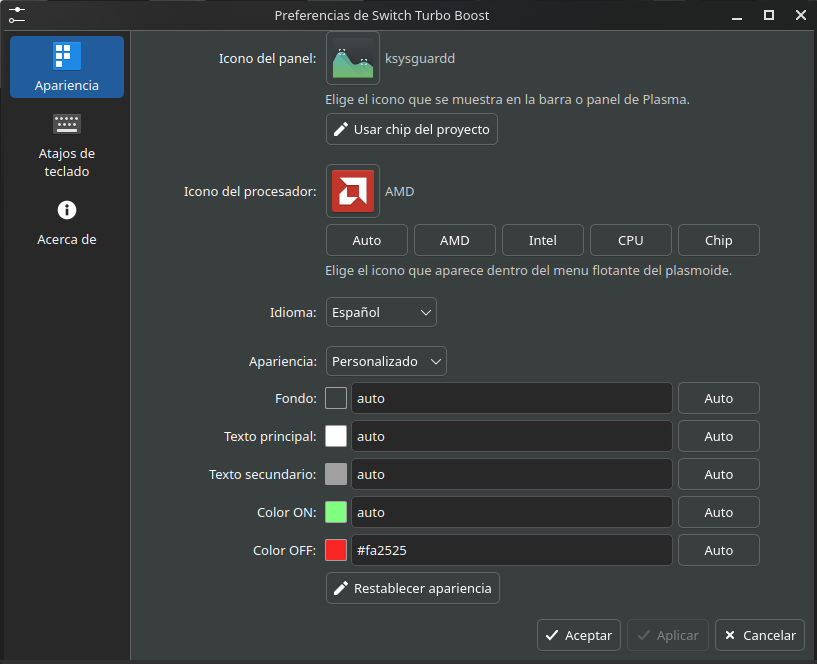
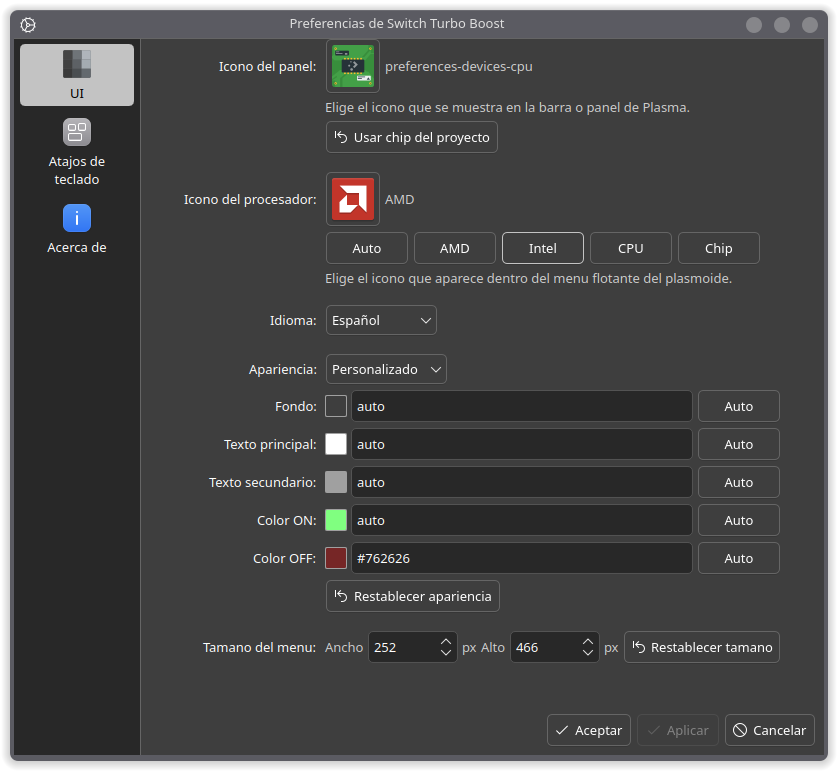
actualizacion de miniaturas

diff --git a/README.es.md b/README.es.md
@@ -21,7 +21,7 @@ Este proyecto es complementario a Switch Turbo Monitor. No reemplaza ni reescrib
 - Iconos locales de procesador basados en Papirus Icon Theme.
 - Texto AMD, Intel o CPU detectada segun el procesador.
 - Nombre del modelo de CPU debajo del fabricante detectado cuando esta disponible.
-- Lectura al cargar, despues de cambiar el estado y cada 15 segundos.
+- Lectura al cargar, despues de cambiar el estado, cada 15 segundos y desde el boton Refrescar del menu flotante.
 - Configuracion de icono del panel, icono del procesador automatico o personalizado, idioma y tamano del menu flotante.
 - Apariencia automatica segun el tema de Plasma, con opcion de colores personalizados.
 - Scripts externos Bash para consultar y modificar `/sys`.
@@ -54,8 +54,6 @@ Este proyecto es complementario a Switch Turbo Monitor. No reemplaza ni reescrib
 
 Las capturas del proyecto estan en `Images/`. No forman parte del paquete instalable del plasmoide; se incluyen para documentacion del repositorio.
 
-El documento breve para publicar la actualizacion 0.2.0 esta en `docs/release-post-0.2.0.pdf`.
-
 ## Estructura
 
 ```text
@@ -67,6 +65,7 @@ switch-turbo-boost-plasmoid/
 ├── package/contents/ui/TurboSwitch.qml
 ├── package/contents/ui/config/ConfigGeneral.qml
 ├── package/contents/images/
+│   ├── kfoldersync.svg
 │   ├── turbo-chip.svg
 │   ├── vendor-amd.svg
 │   ├── vendor-cpu.svg
@@ -77,9 +76,6 @@ switch-turbo-boost-plasmoid/
 │   ├── 02.png
 │   ├── 03.png
 │   └── 04.png
-├── docs/
-│   ├── release-post-0.2.0.html
-│   └── release-post-0.2.0.pdf
 ├── scripts/
 │   ├── get-cpu-info.sh
 │   ├── get-cpu-vendor.sh

diff --git a/README.md b/README.md
@@ -21,7 +21,7 @@ This project complements Switch Turbo Monitor. It does not replace or rewrite th
 - Local processor icons based on Papirus Icon Theme.
 - AMD, Intel, or CPU text detected from the processor.
 - CPU model name below the detected vendor when available.
-- Status refresh on startup, after state changes, and every 15 seconds.
+- Status refresh on startup, after state changes, every 15 seconds, and from the popup refresh button.
 - Settings for panel icon, automatic or custom processor icon, language, and popup size.
 - Automatic appearance based on the Plasma theme, with optional custom colors.
 - External Bash scripts to read and modify `/sys`.
@@ -54,8 +54,6 @@ This project complements Switch Turbo Monitor. It does not replace or rewrite th
 
 Project screenshots are stored in `Images/`. They are not part of the installable plasmoid package; they are included for repository documentation.
 
-The short document for publishing the 0.2.0 update is in `docs/release-post-0.2.0.pdf`.
-
 ## Structure
 
 ```text
@@ -67,6 +65,7 @@ switch-turbo-boost-plasmoid/
 ├── package/contents/ui/TurboSwitch.qml
 ├── package/contents/ui/config/ConfigGeneral.qml
 ├── package/contents/images/
+│   ├── kfoldersync.svg
 │   ├── turbo-chip.svg
 │   ├── vendor-amd.svg
 │   ├── vendor-cpu.svg
@@ -77,9 +76,6 @@ switch-turbo-boost-plasmoid/
 │   ├── 02.png
 │   ├── 03.png
 │   └── 04.png
-├── docs/
-│   ├── release-post-0.2.0.html
-│   └── release-post-0.2.0.pdf
 ├── scripts/
 │   ├── get-cpu-info.sh
 │   ├── get-cpu-vendor.sh

diff --git a/README.pt.md b/README.pt.md
@@ -21,7 +21,7 @@ Este projeto complementa o Switch Turbo Monitor. Ele nao substitui nem reescreve
 - Icones locais de processador baseados no Papirus Icon Theme.
 - Texto AMD, Intel ou CPU detectado conforme o processador.
 - Nome do modelo da CPU abaixo do fabricante detectado quando disponivel.
-- Leitura ao carregar, depois de alterar o estado e a cada 15 segundos.
+- Leitura ao carregar, depois de alterar o estado, a cada 15 segundos e pelo botao Atualizar do menu flutuante.
 - Configuracao de icone do painel, icone do processador automatico ou personalizado, idioma e tamanho do menu flutuante.
 - Aparencia automatica conforme o tema do Plasma, com opcao de cores personalizadas.
 - Scripts Bash externos para consultar e modificar `/sys`.